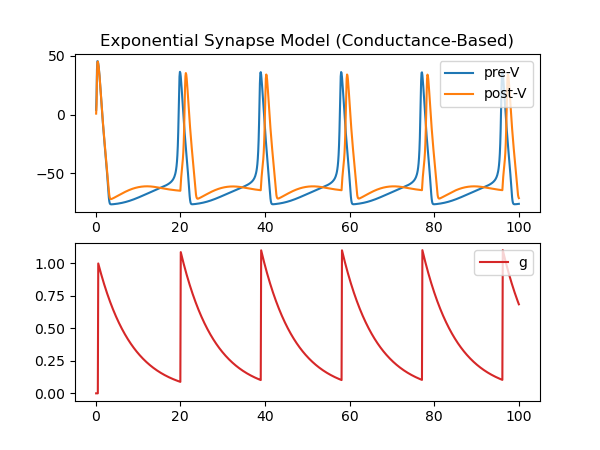
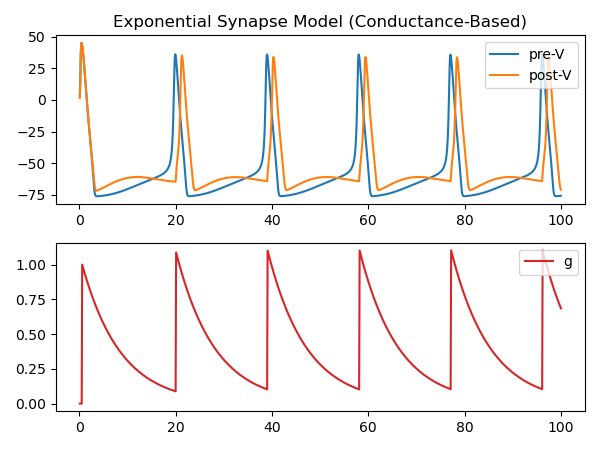
add more synapse models

diff --git a/synapes_models/Delta.py b/synapes_models/Delta.py
@@ -4,16 +4,14 @@ import brainpy.math as bm
 from run_synapse import run_syn
 
 
-class DualExponential(bp.dyn.TwoEndConn):
-	def __init__(self, pre, post, conn, g_max=1., tau_decay=10.0, tau_rise=1., delay_step=2, E=0.,
-	             syn_type='CUBA', method='exp_auto', **kwargs):
-		super(DualExponential, self).__init__(pre=pre, post=post, conn=conn, **kwargs)
+class VoltageJump(bp.dyn.TwoEndConn):
+	def __init__(self, pre, post, conn, g_max=5., delay_step=2, E=0.,
+	             syn_type='CUBA', **kwargs):
+		super().__init__(pre=pre, post=post, conn=conn, **kwargs)
 		self.check_pre_attrs('spike')
 		self.check_post_attrs('input', 'V')
 
 		# 初始化参数
-		self.tau_decay = tau_decay
-		self.tau_rise = tau_rise
 		self.g_max = g_max
 		self.delay_step = delay_step
 		self.E = E
@@ -26,12 +24,7 @@ class DualExponential(bp.dyn.TwoEndConn):
 
 		# 初始化变量
 		self.g = bm.Variable(bm.zeros(self.post.num))
-		self.h = bm.Variable(bm.zeros(self.post.num))
 		self.delay = bm.LengthDelay(self.pre.spike, delay_step)  # 定义一个延迟处理器
-
-		# 定义微分方程及其对应的积分函数
-		self.int_h = bp.odeint(method=method, f=lambda h, t: -h / self.tau_rise)
-		self.int_g = bp.odeint(method=method, f=lambda g, t, h: -g / self.tau_decay + h)
 
 	def update(self, _t, _dt):
 		# 将突触前神经元传来的信号延迟delay_step的时间步长
@@ -40,9 +33,7 @@ class DualExponential(bp.dyn.TwoEndConn):
 
 		# 根据连接模式计算各个突触后神经元收到的信号强度
 		post_sp = bm.pre2post_event_sum(delayed_pre_spike, self.pre2post, self.post.num, self.g_max)
-		# 突触的电导g的更新包括常规积分和突触前脉冲带来的跃变
-		self.h.value = self.int_h(self.h, _t) + post_sp
-		self.g.value = self.int_g(self.g, _t, self.h)
+		self.g.value = post_sp
 
 		# 根据不同模式计算突触后电流
 		if self.type == 'CUBA':
@@ -51,5 +42,5 @@ class DualExponential(bp.dyn.TwoEndConn):
 			self.post.input += self.g * (self.E - self.post.V)
 
 
-run_syn(DualExponential, syn_type='CUBA', title='Dual Exponential Synapse Model (Current-Based)')
-run_syn(DualExponential, syn_type='COBA', title='Dual Exponential Synapse Model (Conductance-Based)')
+run_syn(VoltageJump, syn_type='CUBA', title='Delta Synapse Model (Current-Based)')
+run_syn(VoltageJump, syn_type='COBA', title='Delta Synapse Model (Conductance-Based)')

diff --git a/synapes_models/exponential.py b/synapes_models/exponential.py
@@ -21,8 +21,7 @@ class Exponential(bp.dyn.TwoEndConn):
 		self.type = syn_type
 
 		# 获取关于连接的信息
-		assert self.conn is not None
-		self.pre2post = self.conn.require('pre2post')
+		self.pre2post = self.conn.require('pre2post')  # 获取从pre到post的连接信息
 
 		# 初始化变量
 		self.g = bm.Variable(bm.zeros(self.post.num))
@@ -36,7 +35,7 @@ class Exponential(bp.dyn.TwoEndConn):
 		return dgdt
 
 	def update(self, _t, _dt):
-		# 将突触前神经元传来的信号延迟delay的时长
+		# 将突触前神经元传来的信号延迟delay_step的时间步长
 		delayed_pre_spike = self.delay(self.delay_step)
 		self.delay.update(self.pre.spike)
 
@@ -53,4 +52,4 @@ class Exponential(bp.dyn.TwoEndConn):
 
 
 run_syn(Exponential, syn_type='CUBA', title='Exponential Synapse Model (Current-Based)')
-run_syn(Exponential, syn_type='COBA', title='Exponential Synapse Model (Conductance-Based)', E=0.)
+run_syn(Exponential, syn_type='COBA', title='Exponential Synapse Model (Conductance-Based)')

diff --git a/synapes_models/alpha.py b/synapes_models/alpha.py
@@ -1,0 +1,18 @@
+import brainpy as bp
+import brainpy.math as bm
+
+from dual_exponential import DualExponential
+from run_synapse import run_syn
+
+
+class Alpha(DualExponential):
+	def __init__(self, pre, post, conn, g_max=1., tau=4.0, delay_step=2, E=0.,
+	             syn_type='CUBA', method='exp_auto', **kwargs):
+		super(Alpha, self).__init__(pre=pre, post=post, conn=conn,
+		                            g_max=g_max, tau_decay=tau, tau_rise=tau,
+		                            E=E, delay_step=delay_step, syn_type=syn_type,
+		                            method=method, **kwargs)
+
+
+run_syn(Alpha, syn_type='CUBA', title='Alpha Synapse Model (Current-Based)')
+run_syn(Alpha, syn_type='COBA', title='Alpha Synapse Model (Conductance-Based)')
